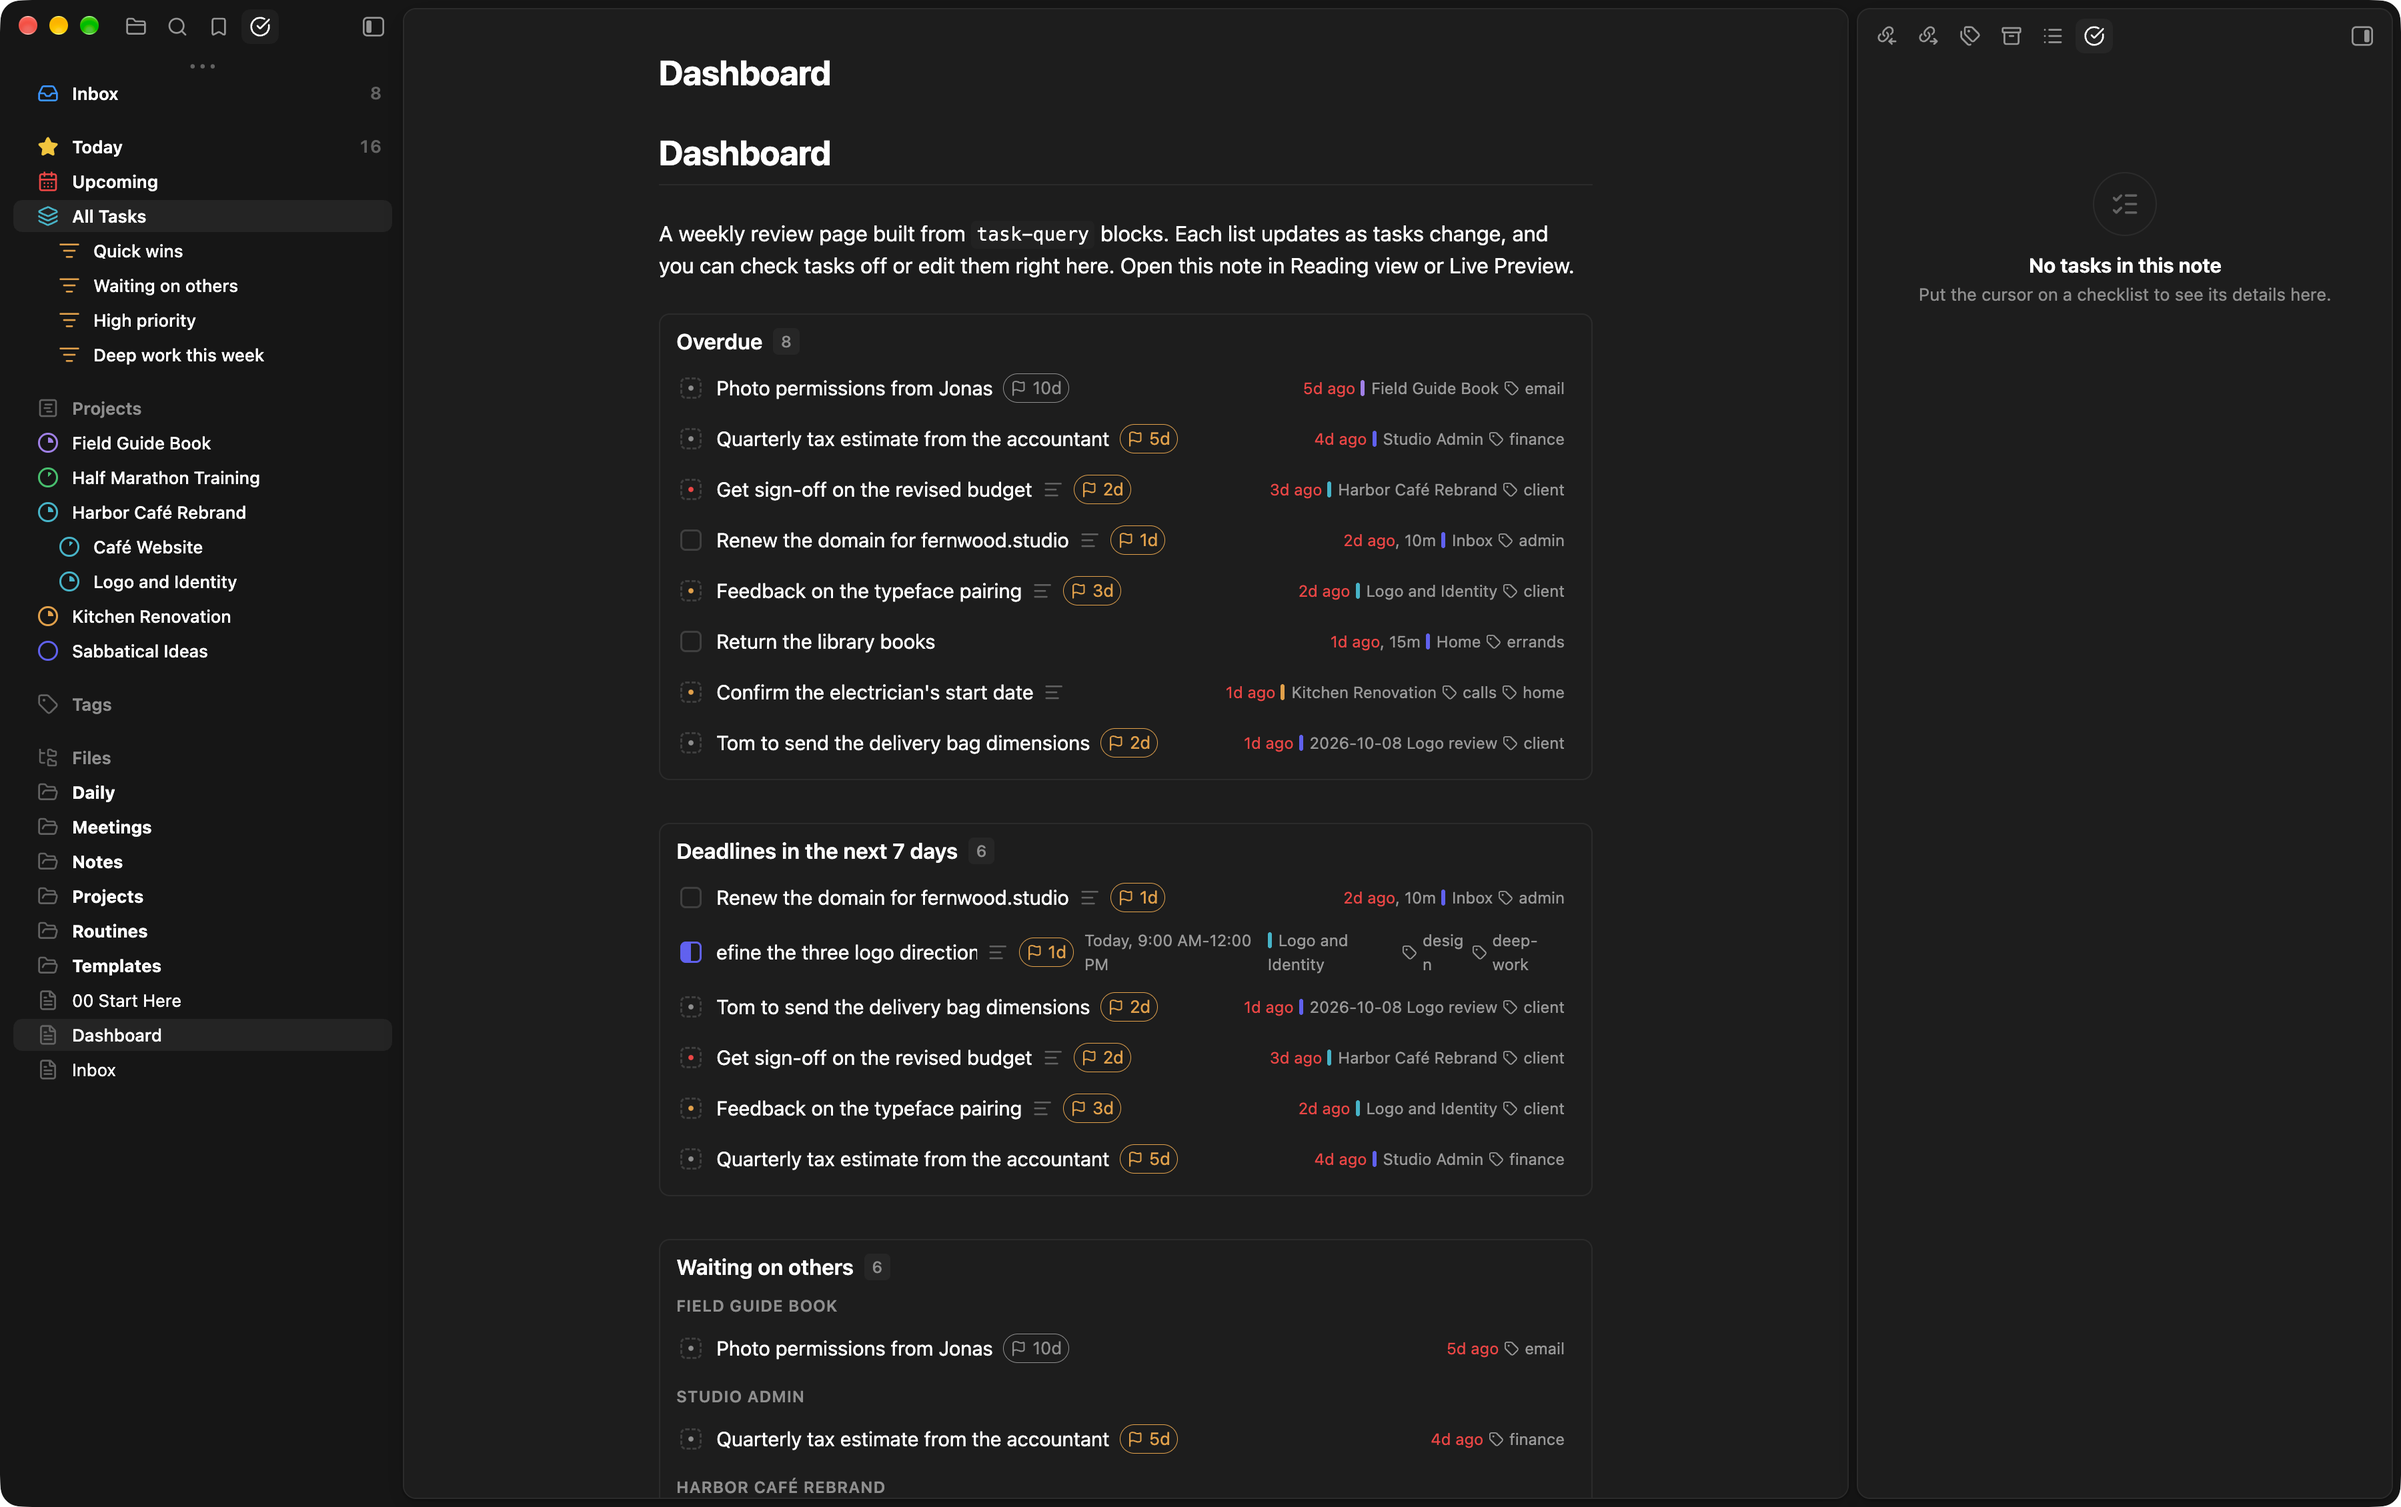
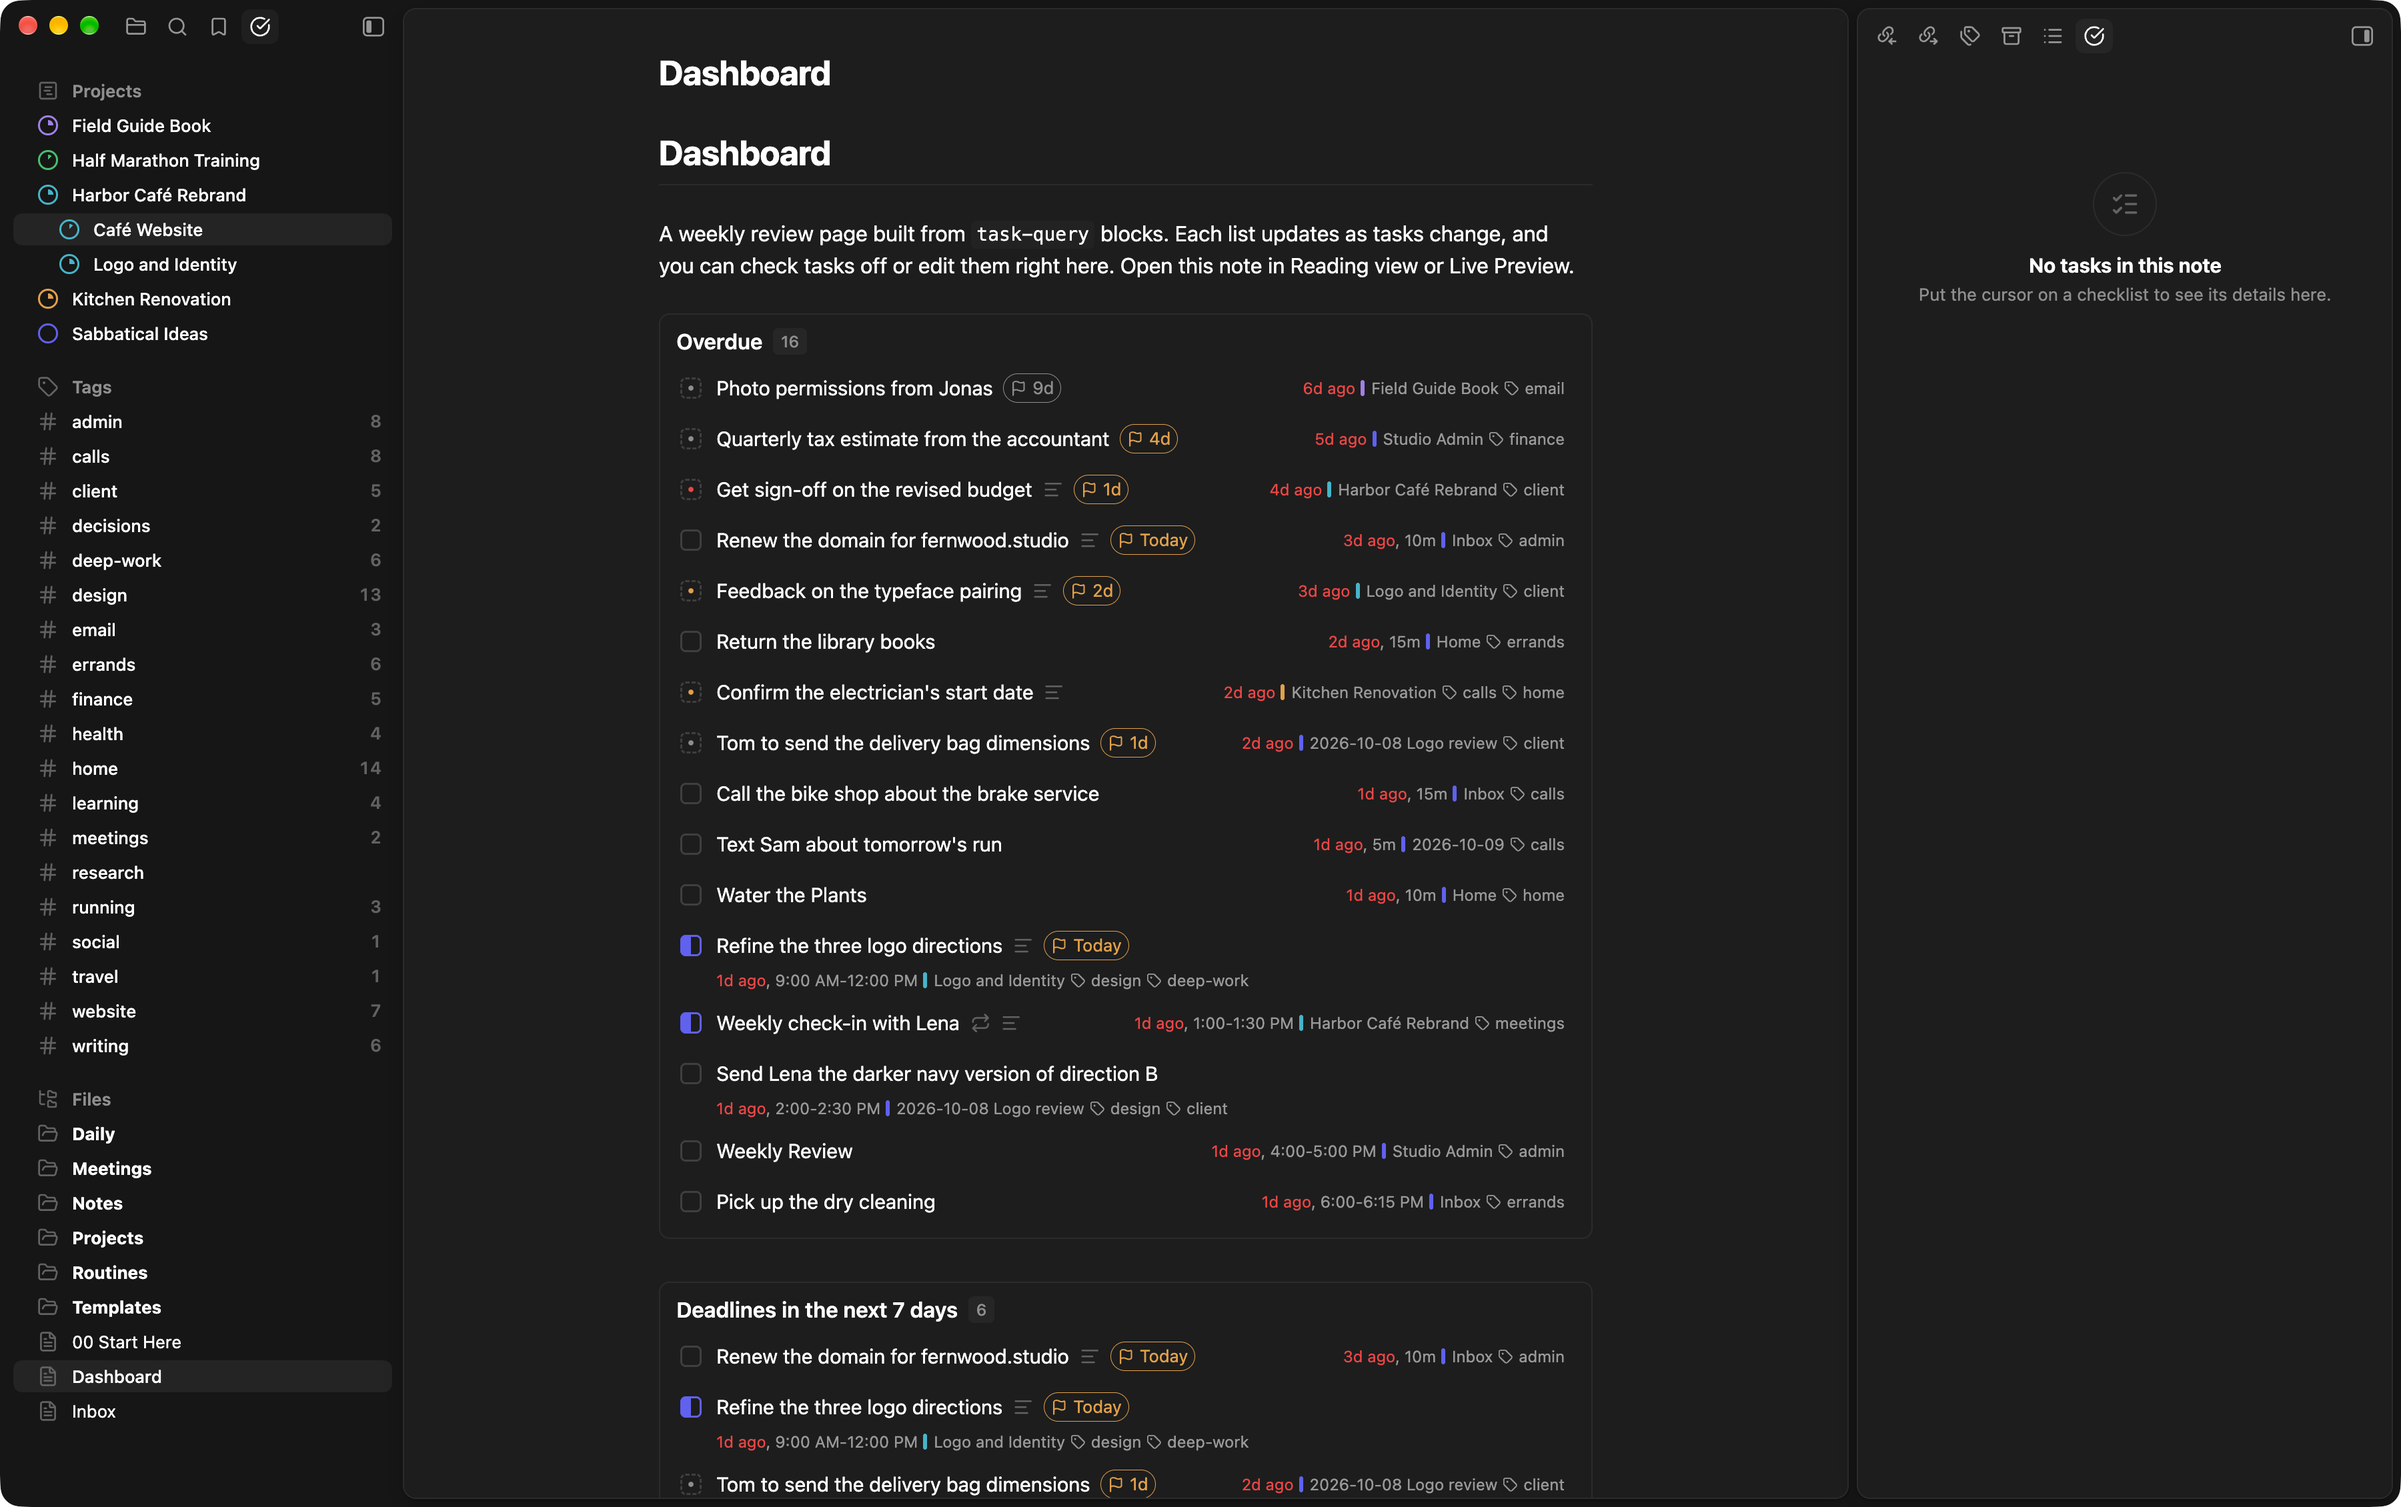
docs: README for 0.15.0, new dashboard screenshot, drop unused images
Claude-Session: https://claude.ai/code/session_01CmDc4og8f7rUPo94qKQPHm

diff --git a/README.md b/README.md
@@ -8,7 +8,7 @@ Plan your work from the checklists already in your notes. Integrated Task Manage
 - **Views for every question.** Inbox, Today, Upcoming, All Tasks, Projects, Tags, and smart lists you save yourself.
 - **List, calendar or board.** Any task view can switch layout, and the Projects list switches to a Gantt chart.
 - **Projects are notes.** Tag a note `project` and its headings become sections, with dates, a deadline, a colour and progress.
-- **A sidebar that follows you.** The Task details sidebar shows today's hours, your tasks with no date, a note's tasks, or the task you selected.
+- **A sidebar that follows you.** The Task details sidebar shows today's hours, your tasks with no date, a note's tasks, the task you selected, or else what's coming up.
 - **Live task lists in any note.** A `task-query` block turns a daily note or a dashboard into a checkable list.
 - **Fast to drive.** Select many tasks at once, use single-key shortcuts, and undo any change.
 
@@ -89,7 +89,7 @@ Press **Cmd/Ctrl+K** in a task view (or run **Quick switch to view, project, tag
 
 Click the filter button at the top of a view to open **View options**. Pick several statuses, priorities, tags or notes at once, or a date range such as **Overdue**, **Today** or **Next 7 days**. Date ranges stay relative, so "Next 7 days" always means the coming week. **More conditions…** adds anything else: "is not", a range between two dates, or conditions joined with AND and OR.
 
-Each view remembers its own options and layout. To keep a setup, choose **Convert to smart list** at the bottom of View options and give it a name. Smart lists appear in the task sidebar under **All Tasks** and update as your tasks change.
+Each view remembers its own options and layout. To keep a setup, choose **Convert to smart list** at the bottom of View options and give it a name. Smart lists appear in the task sidebar under **All Tasks** and update as your tasks change. To change a smart list later, adjust its View options and choose **Update smart list** at the bottom.
 
 ### The Task details sidebar
 
@@ -99,8 +99,9 @@ The Task details sidebar sits in Obsidian's right sidebar. What it shows follows
 - **A calendar, or Upcoming:** that view's tasks with no date. Drag one onto a day to give it a date.
 - **A note:** the note's tasks. Put the cursor on a checklist line to see and edit its details.
 - **A selected task:** its title, properties, notes and subtasks, all editable in place. With several tasks selected, change a property once and every selected task follows.
+- **Nothing else:** your upcoming tasks, by date. Click one to see its details. Click the **Upcoming** heading to show Inbox, Today, All Tasks or one of your smart lists here instead, and use the filter button beside it to filter, sort and group that list.
 
-Press Escape to go back to the hours or the list. If you close the sidebar, run **Open task details sidebar** to bring it back.
+In the title, Enter saves what you typed and Shift+Enter moves on to the notes (a task card in the list works the same way). Press Escape to go back to the hours or the list. If you close the sidebar, run **Open task details sidebar** to bring it back.
 
 ## Choose a layout
 
@@ -108,7 +109,7 @@ Every task view switches between list, calendar and Kanban with the buttons at i
 
 ### List
 
-Click a checkbox to complete a task, or double-click a task to open it. Drag tasks to reorder them, move them between sections and notes, or nest them: drag right to make a task a subtask of the one above, left to move it out. Subtasks and notes travel with their task.
+Click a checkbox to complete a task, or double-click a task to open it. Click a group's heading to fold its tasks away, and click it again to bring them back. Drag tasks to reorder them, move them between sections and notes, or nest them: drag right to make a task a subtask of the one above, left to move it out. Subtasks and notes travel with their task.
 
 You can also drop tasks on the task sidebar: on **Inbox**, a project or a note to move them there, on **Today** to schedule them for today, or on a tag to add it. Everything you can do by dragging also works from the keyboard (see [Keyboard shortcuts](#keyboard-shortcuts)).
 
@@ -195,7 +196,11 @@ group: source
 
 ![A dashboard note in Reading view, with live lists of overdue tasks, deadlines in the next seven days, and tasks waiting on others grouped by note](resources/images/dashboard-task-queries.png)
 
-Check tasks off, click a title to edit it, or click a date or tag to change it, right from the note. Write one option per line:
+Tasks look as they do in your task views, in the style you chose. Check them off, click a tag to open its tasks, or click a title or date to edit the task right from the note: it opens in the task editor, or with three panes in the Task details sidebar.
+
+Add `layout: board` to show the tasks as a board, with a column for each status (or for each group, with `group`). Add `layout: calendar` for a week calendar, where you can page through the weeks, drag a task to another day or time, and drag across empty time to add one. `layout: calendar month` opens on a month instead, and a date after it opens on that date's month or week, as in `layout: calendar month 2026-11-01` or `layout: calendar next monday`.
+
+Write one option per line:
 
 | Option | Examples |
 | --- | --- |
@@ -207,7 +212,8 @@ Check tasks off, click a title to edit it, or click a date or tag to change it, 
 | Dates | `deadline: before next friday` · `scheduled: between today and in 7 days` · `completed: after 7 days ago` · `deadline: missing` |
 | `search` | words in the title, notes or tags |
 | `sort`, `group` | `sort: priority desc` · `group: source` |
-| `limit` | how many tasks to show (50 by default) |
+| `layout` | `list` (the default), `board`, `calendar`, or `calendar` followed by `day`, `4 days`, `week` or `month` and a date to open on |
+| `limit` | how many tasks a list or board shows (50 by default) |
 | `title` | a heading for the list |
 | `show completed` | `yes` to include completed tasks |
 
@@ -287,7 +293,7 @@ Swipe a task right to select it, or left for its actions. Tap a task to open its
 
 ![The Today view in the Griply style, with each task's dates, project and tags on a line under its title](resources/images/today-griply-style.png)
 
-Choose between two **Styles** in settings: **Things** (the default, shown at the top of this page), where tasks open as cards in the list, and **Griply**, shown above, where each task's details sit under its title and tasks open in the task editor. To work in three panes, set **Task details** to **Three panes: in the sidebar**, and tasks open in the Task details sidebar instead.
+Choose between two **Styles** in settings: **Griply** (the default, shown above), where each task's details sit under its title and tasks open in the task editor, and **Things**, shown at the top of this page, where tasks open as cards in the list. To work in three panes, set **Task details** to **Three panes: in the sidebar**, and tasks open in the Task details sidebar instead.
 
 | Setting | What it does |
 | --- | --- |
